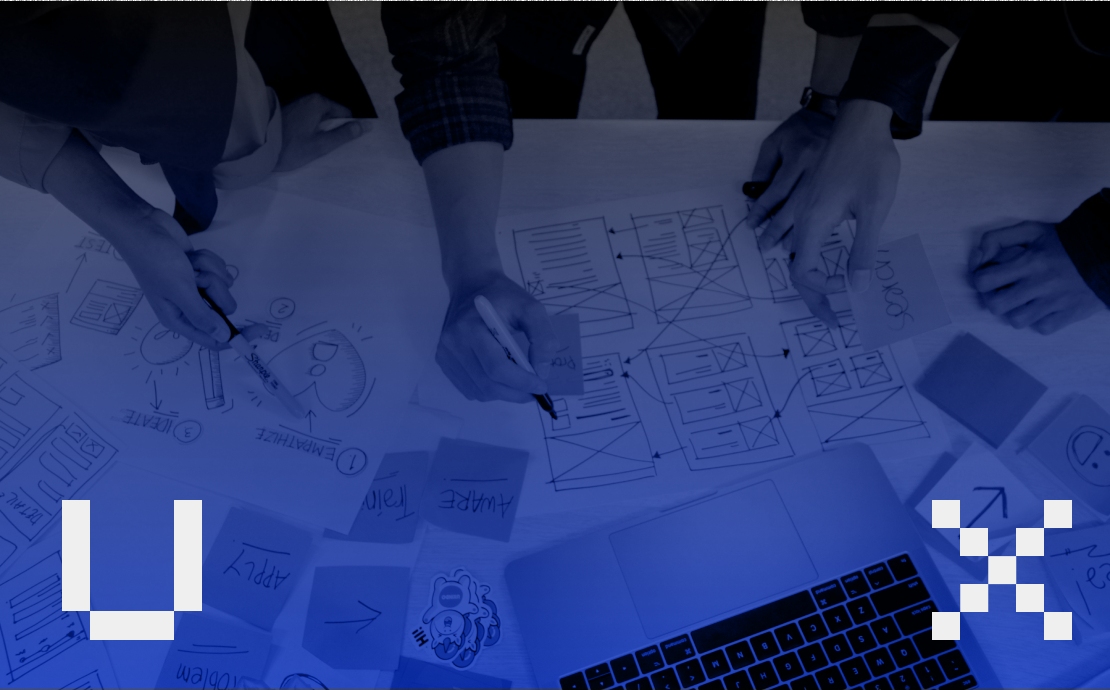
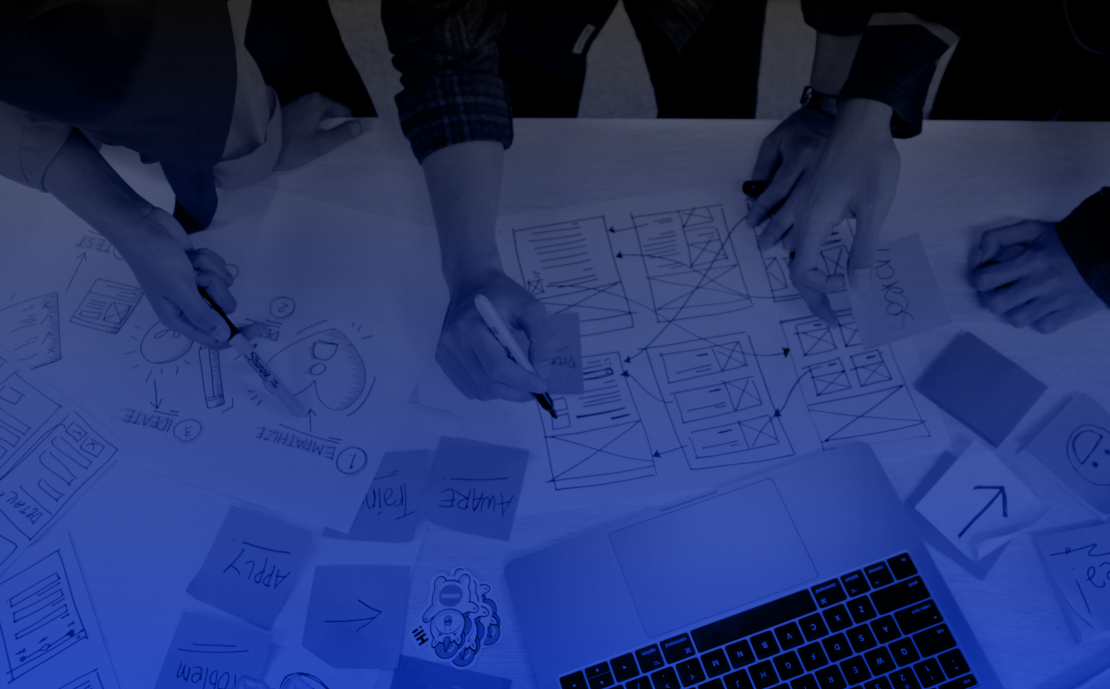
:construction: Working on adding MainImg in <MainPage>. stall untill design changed

Changed region(s): [[0.827, 0.701, 0.9802, 0.9448], [0.0306, 0.701, 0.1838, 0.9448]]

diff --git a/src/pages/MainPage/Mainpage.jsx b/src/pages/MainPage/Mainpage.jsx
@@ -1,11 +1,19 @@
 import React from 'react';
+import styles from './MainPage.module.scss';
+
+import mainImg from '../../assets/UI/mainImg.png';
+import UXImg from '../../assets/UI/mainUX.svg';
+
 import SideNavigator from '../../components/CommonLayout/SideNavigator/SideNavigator';
 
 const MainPage = () => {
   return ( <>
     <SideNavigator/>
     <main>
-      <p>MainPage</p>
+      <div className={styles.imgContainer}>
+        <img src={mainImg} alt="mainImg" className={styles.mainImg}/>
+        <img src={UXImg} alt="UX" className={styles.UXImg}/>
+      </div>
     </main>
   </> );
 }

diff --git a/src/pages/MainPage/MainPage.module.scss b/src/pages/MainPage/MainPage.module.scss
@@ -1,0 +1,29 @@
+@import '../../components/globalStyle.scss';
+
+
+.imgContainer{
+  // size
+  width: 100%;
+  height: 12rem + 2.8*6*$smallFontSize + 1.8*$smallFontSize + 3rem;
+
+  .mainImg{
+    // size
+    width: 100%;
+    height: 100%;
+    object-fit: cover;
+  
+  }
+  
+  .UXImg{
+    // size
+    width: 80%;
+
+    // position
+    position: absolute;
+    bottom: 0;
+
+    // center
+    left: 50%;
+    transform: translateX(-50%);
+  }
+}

diff --git a/src/components/CommonLayout/MainLayout/MainLayout.jsx b/src/components/CommonLayout/MainLayout/MainLayout.jsx
@@ -6,7 +6,7 @@ import bannerImg from '../../../assets/UI/bannerImg.png';
 const MainLayout = ({title, description, tagtitle, children}) => {
   return (
     <main>
-      <img src={bannerImg} alt="banner" />
+      <img src={bannerImg} alt="banner" className={styles.banner}/>
       <article>
         <div className={styles.articleHeader}>
           <h1 className={styles.headerTitle}>{title}</h1>

diff --git a/src/components/globalStyle.scss b/src/components/globalStyle.scss
@@ -50,10 +50,10 @@ main{
   }
 
   // banner
-  img{
+  .banner{
     // size
     width: 100%;
-    height: 12rem;
+    height: 12rem; // calculated from logo <img>
     object-fit: cover;
   }
 
